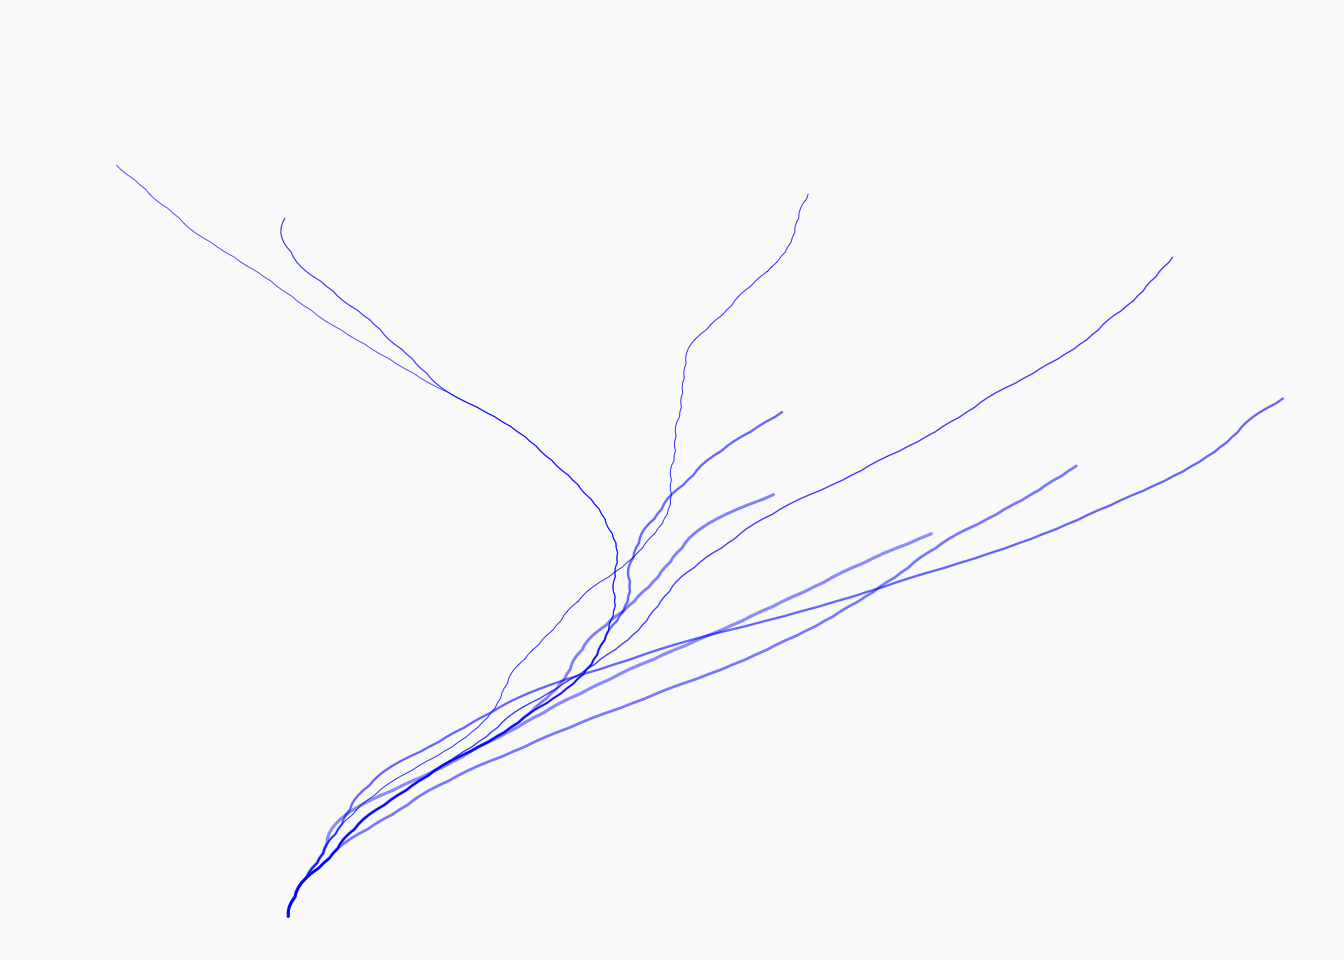
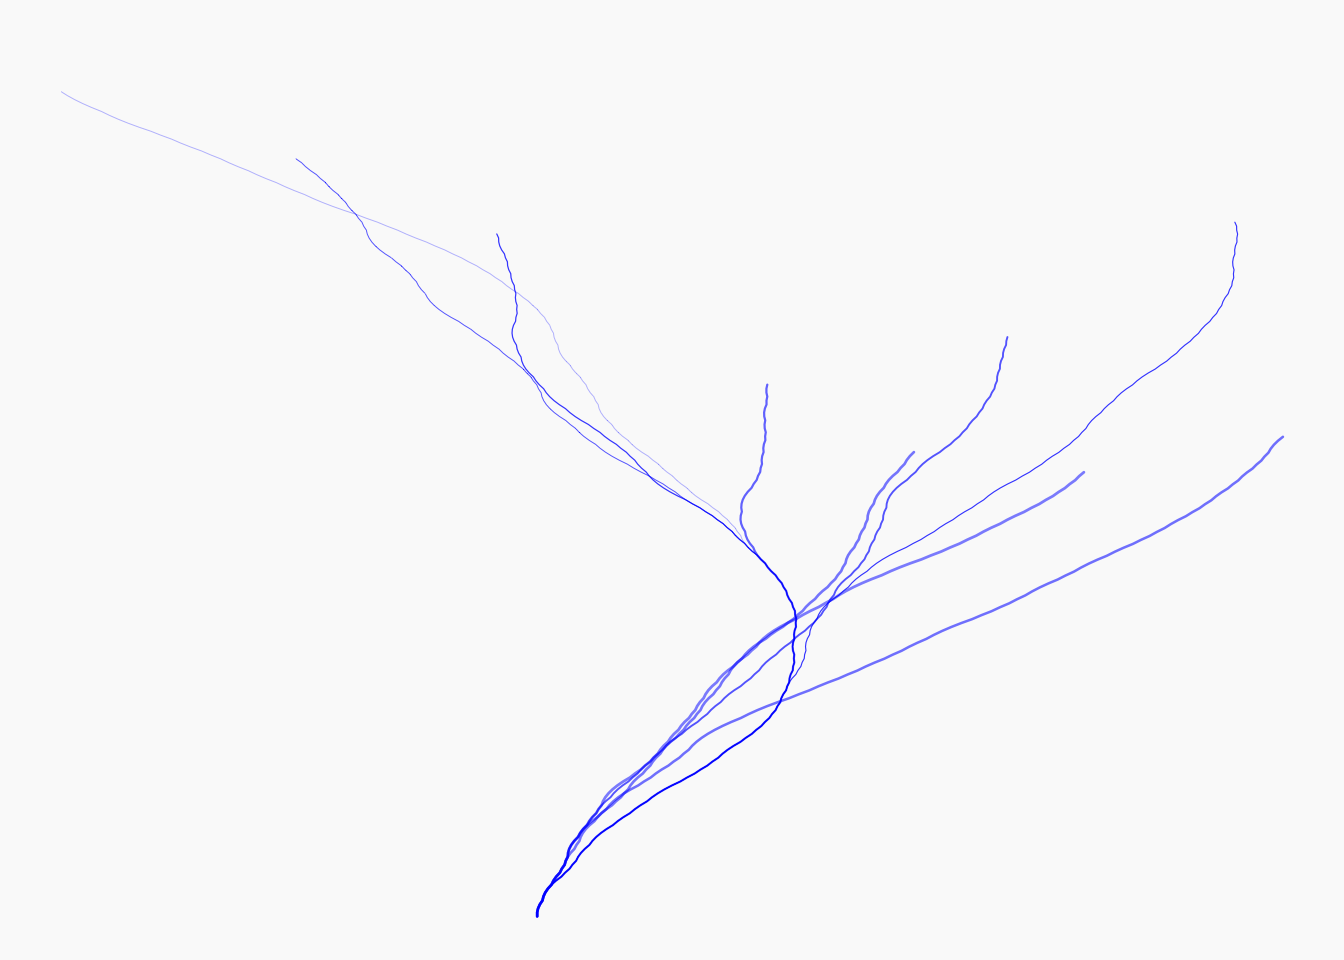
Completed question 4

diff --git a/homework-2.html b/homework-2.html
@@ -149,7 +149,32 @@ pre > code.sourceCode > span > a:first-child::before { text-decoration: underlin
 <li>this could be troublesome because if you don’t specify all of the arguments, the ran code might not be exactly what you want.</li>
 <li>the set.seed() function can be used to get the same result because it generates numbers that were used previously</li>
 </ul>
+<div class="cell">
+<div class="code-copy-outer-scaffold"><div class="sourceCode cell-code" id="cb4"><pre class="sourceCode r code-with-copy"><code class="sourceCode r"><span id="cb4-1"><a href="#cb4-1" aria-hidden="true" tabindex="-1"></a><span class="fu">set.seed</span>(<span class="dv">5</span>)</span></code></pre></div><button title="Copy to Clipboard" class="code-copy-button"><i class="bi"></i></button></div>
+</div>
 </section>
+</section>
+<section id="question-4" class="level2">
+<h2 class="anchored" data-anchor-id="question-4">Question 4</h2>
+<div class="cell">
+<div class="code-copy-outer-scaffold"><div class="sourceCode cell-code" id="cb5"><pre class="sourceCode r code-with-copy"><code class="sourceCode r"><span id="cb5-1"><a href="#cb5-1" aria-hidden="true" tabindex="-1"></a><span class="fu">canvas_collatz</span>(</span>
+<span id="cb5-2"><a href="#cb5-2" aria-hidden="true" tabindex="-1"></a>  <span class="at">colors =</span> <span class="fu">c</span>(<span class="st">"blue"</span>),</span>
+<span id="cb5-3"><a href="#cb5-3" aria-hidden="true" tabindex="-1"></a>  <span class="at">n =</span> <span class="dv">1</span><span class="sc">:</span><span class="dv">20</span></span>
+<span id="cb5-4"><a href="#cb5-4" aria-hidden="true" tabindex="-1"></a>)</span></code></pre></div><button title="Copy to Clipboard" class="code-copy-button"><i class="bi"></i></button></div>
+<div class="cell-output-display">
+<div>
+<figure class="figure">
+<p><img src="homework-2_files/figure-html/unnamed-chunk-5-1.png" class="img-fluid figure-img" width="672"></p>
+</figure>
+</div>
+</div>
+<div class="code-copy-outer-scaffold"><div class="sourceCode cell-code" id="cb6"><pre class="sourceCode r code-with-copy"><code class="sourceCode r"><span id="cb6-1"><a href="#cb6-1" aria-hidden="true" tabindex="-1"></a><span class="fu">set.seed</span>(<span class="dv">1</span>)</span></code></pre></div><button title="Copy to Clipboard" class="code-copy-button"><i class="bi"></i></button></div>
+</div>
+<ul>
+<li>the difference between this code and the one above is that this runs the function from 1 to 20 rather than just at 10</li>
+<li>in this code, the picture that is generated doesn’t change every time you render</li>
+<li></li>
+</ul>
 </section>
 </section>
 
